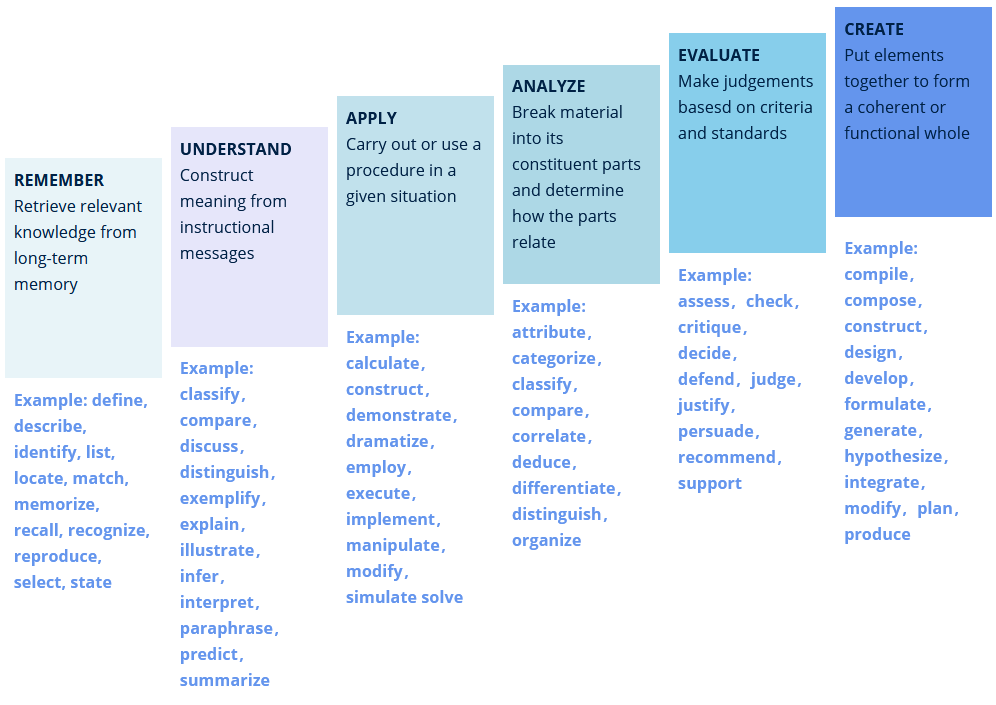
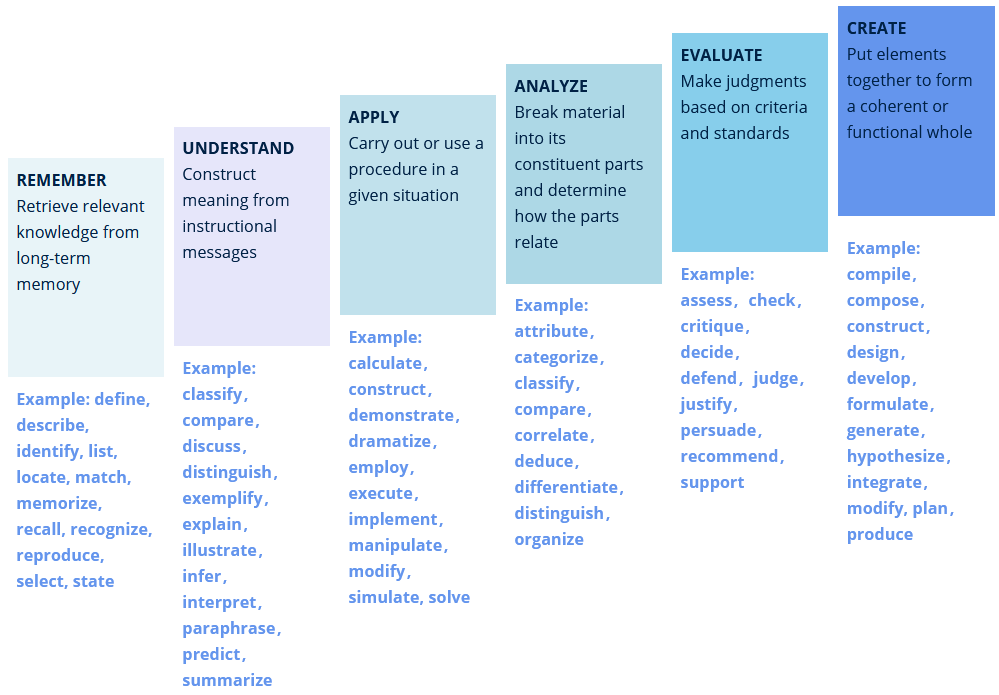
fixed blooms typos

diff --git a/resources/views/courses/wizard/step1.blade.php b/resources/views/courses/wizard/step1.blade.php
@@ -137,7 +137,7 @@
                                                                                         </div>
                                                                                         <div class="box" style="background-color: #87CEEB;">
                                                                                             <strong>EVALUATE</strong>
-                                                                                            <p>Make judgements basesd on criteria and standards</p>
+                                                                                            <p>Make judgments based on criteria and standards</p>
                                                                                         </div>
                                                                                         <div class="box" style="background-color: #6495ED;">
                                                                                             <strong>CREATE</strong>
@@ -148,19 +148,19 @@
                                                                                             <p class="CLO_example">Example: define, describe, identify, list, locate, match, memorize, recall, recognize, reproduce, select, state</p>
                                                                                         </div>
                                                                                         <div class="box">
-                                                                                            <p class="CLO_example">Example: classify，compare，discuss，distinguish，exemplify，explain，illustrate，inder，interpret，paraphrase，predict，summarize</p>
+                                                                                            <p class="CLO_example">Example: classify，compare，discuss，distinguish，exemplify，explain，illustrate，infer，interpret，paraphrase，predict，summarize</p>
                                                                                         </div>
                                                                                         <div class="box">
-                                                                                            <p class="CLO_example">Example: calculate，construct，demonstrate，dramatize，employ，execute，implement，manipulate，modify，simulate solve</p>
+                                                                                            <p class="CLO_example">Example: calculate，construct，demonstrate，dramatize，employ，execute，implement，manipulate，modify，simulate, solve</p>
                                                                                         </div>
                                                                                         <div class="box">
-                                                                                            <p class="CLO_example">Example: attribute，categorize，classify，compare，correlate，deduce，differentiate，distinguish，organize plan</p>
+                                                                                            <p class="CLO_example">Example: attribute，categorize，classify，compare，correlate，deduce，differentiate，distinguish，organize</p>
                                                                                         </div>
                                                                                         <div class="box">
-                                                                                            <p class="CLO_example">Example: assess，check，critique，decide，defend，judge，justify，presuade，recommend，support</p>
+                                                                                            <p class="CLO_example">Example: assess，check，critique，decide，defend，judge，justify，persuade，recommend，support</p>
                                                                                         </div>
                                                                                         <div class="box">
-                                                                                            <p class="CLO_example">Example: compile，compose，construct，design，develop，formulate，generate，hypothesize，integrate，modify，plan，produce</p>
+                                                                                            <p class="CLO_example">Example: compile，compose，construct，design，develop，formulate，generate，hypothesize，integrate，modify, plan，produce</p>
                                                                                         </div>
                                                                                     </div> -->
 
